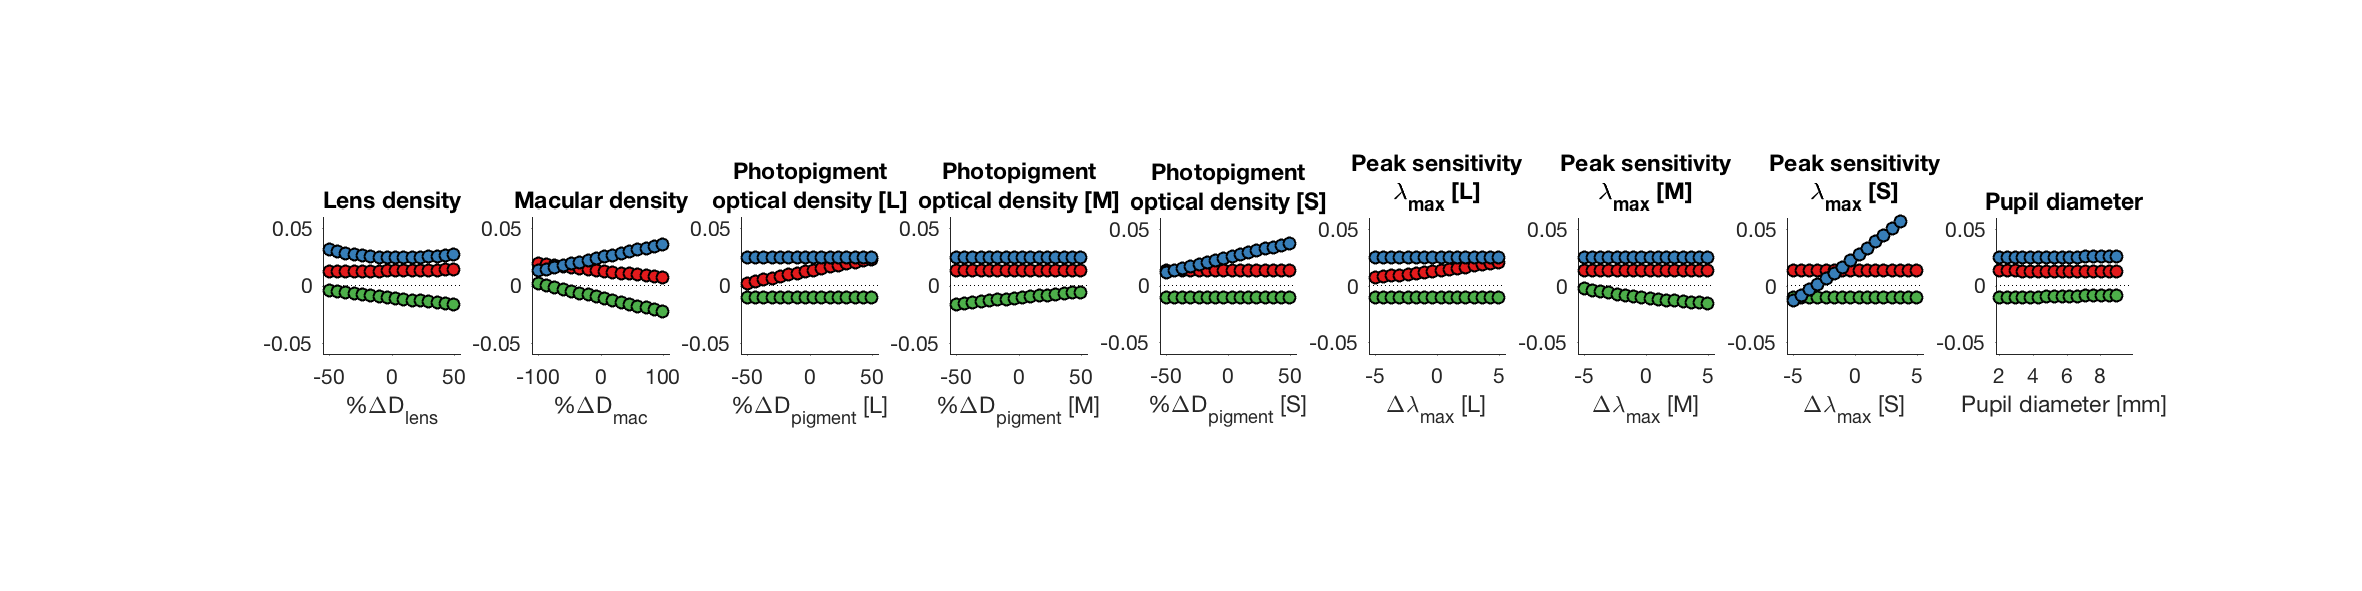
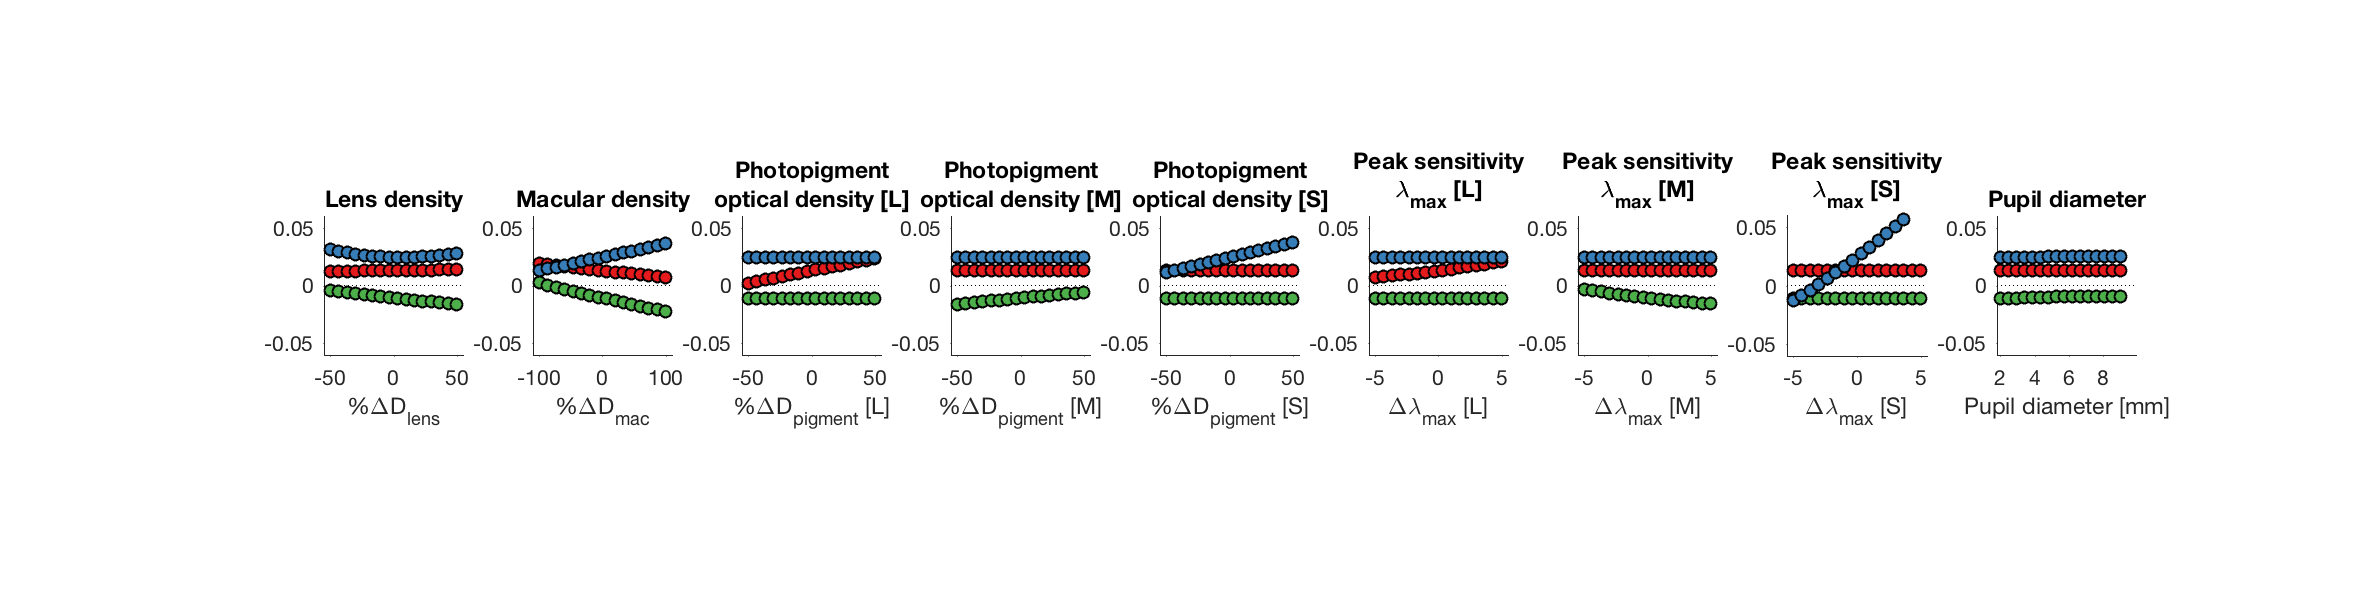
Updates to plots

diff --git a/SST/demos/SSTReceptorDemo.m b/SST/demos/SSTReceptorDemo.m
@@ -35,13 +35,14 @@
 %% Clear work space
 clearvars; close all; clc;
 
-% Check if the SST is installed properly
-CheckSSTInstalled();
-
 % Infer the SST root
 sstRoot0 = mfilename('fullpath');
 sstRoot1 = cd(fullfile(fileparts(sstRoot0), '../..'));
 sstRoot = pwd;
+
+% Check if the SST is installed properly
+CheckSSTInstalled();
+
 %% Load backgound and modulation spectra from some demo data in SST
 tmp = load(fullfile(sstRoot, 'ContrastSplatter/ContrastSplatterDemoData/spd_contrastsplatterdemo_bg.mat'));
 bgSpd = tmp.spd;
@@ -140,6 +141,10 @@ for ss = 1:length(theIndDiffParams)
     pbaspect([1 1 1]);
     set(gca, 'TickDir', 'out');
 end
+
+% Enlargen the figure
+screenDims = get(0, 'Screensize');
+set(figParv, 'Position', [1 screenDims(4) screenDims(3)*0.8 screenDims(4)/3]);
 
 % Save out the figure
 set(figParv, 'PaperPosition', [0 0 40 10]);
@@ -545,6 +550,11 @@ plot(receptorObj.Tp_i{ss}.parameterVariation.value, contrastsParametricVariation
 
 pbaspect([1 1 1]); set(gca, 'TickDir', 'out'); box off; xlim(xAxLims);  ylim(yAxLims);
 xlabel('\Delta\lambda_{max} [S]');
+
+% Enlargen the figure
+screenDims = get(0, 'Screensize');
+set(figPars, 'Position', [1 screenDims(4) screenDims(3)*0.9 screenDims(4)*0.9]);
+
 
 % Save out the figure
 set(figPars, 'PaperPosition', [0 0 40 20]);
